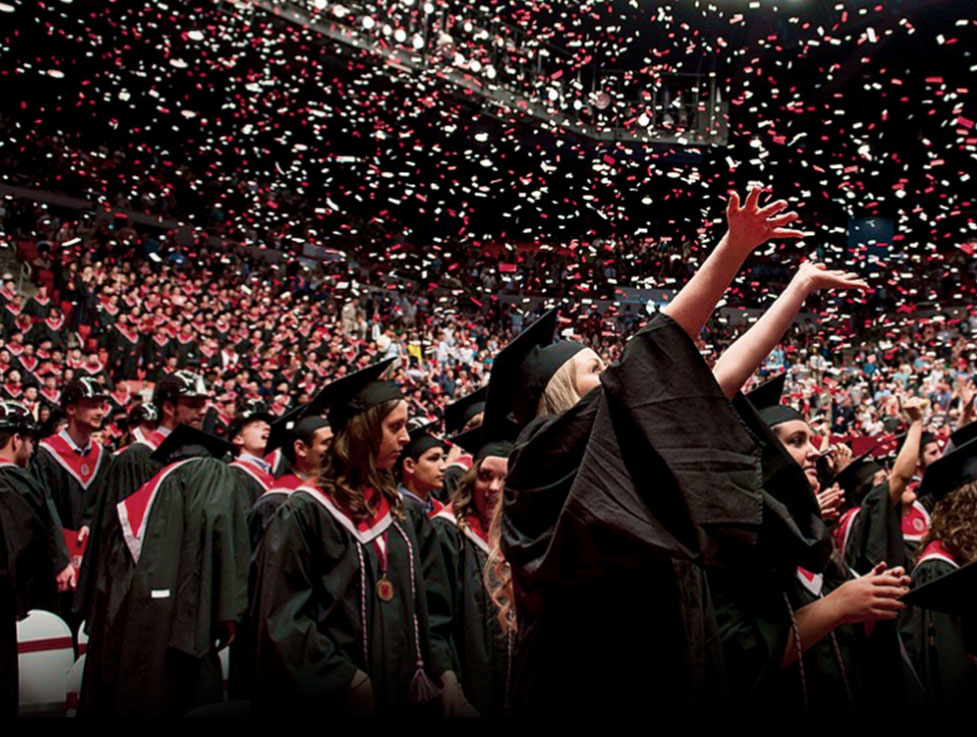
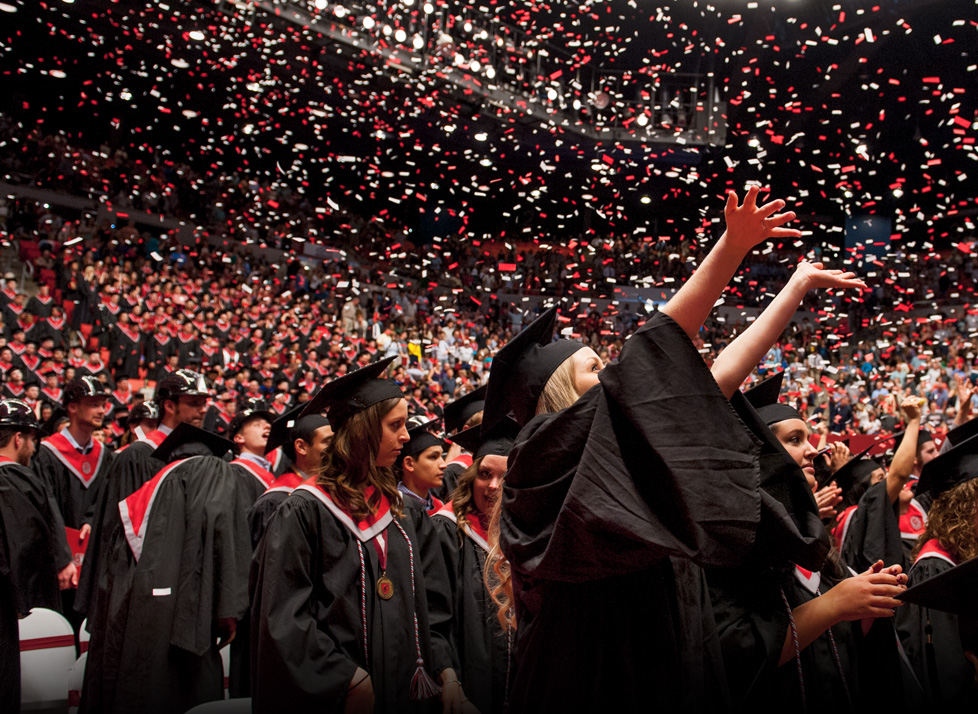
Production

diff --git a/wp-content/themes/brand/page-home.php b/wp-content/themes/brand/page-home.php
@@ -21,10 +21,12 @@ body,main {
 	}
 section#our-brand {
 	background-image: url('/wp-content/themes/brand/images/pages/home/confetti.jpg');
-	background-position: left bottom;
+	background-position: left top;
 	background-repeat: no-repeat;
 	background-size: 100% auto;
-	
+	}
+.size-gt-large section#our-brand {
+	background-position: left bottom;
 	}
 .size-lt-medium section#our-brand {
 	background-size: auto 100%;
@@ -32,10 +34,10 @@ section#our-brand {
 section#our-brand article {
 	background-image: url('/wp-content/themes/brand/images/pages/home/ourbrand.png');
 	background-repeat: no-repeat;
-	background-position: 30px 60px;
+	background-position: 15px 60px;
 	background-size: auto 500px;
 	font-size: 12px;
-	min-height: 550px;
+	min-height: 530px;
 	}
 
 	
@@ -64,7 +66,6 @@ section#our-brand article {
 	<div class="column one">
 
 		<article>
-			
 				<?php 
 				$column = get_post_meta( get_the_ID(), 'section-2-1', true );
 				if( ! empty( $column ) ) { echo $column; }
